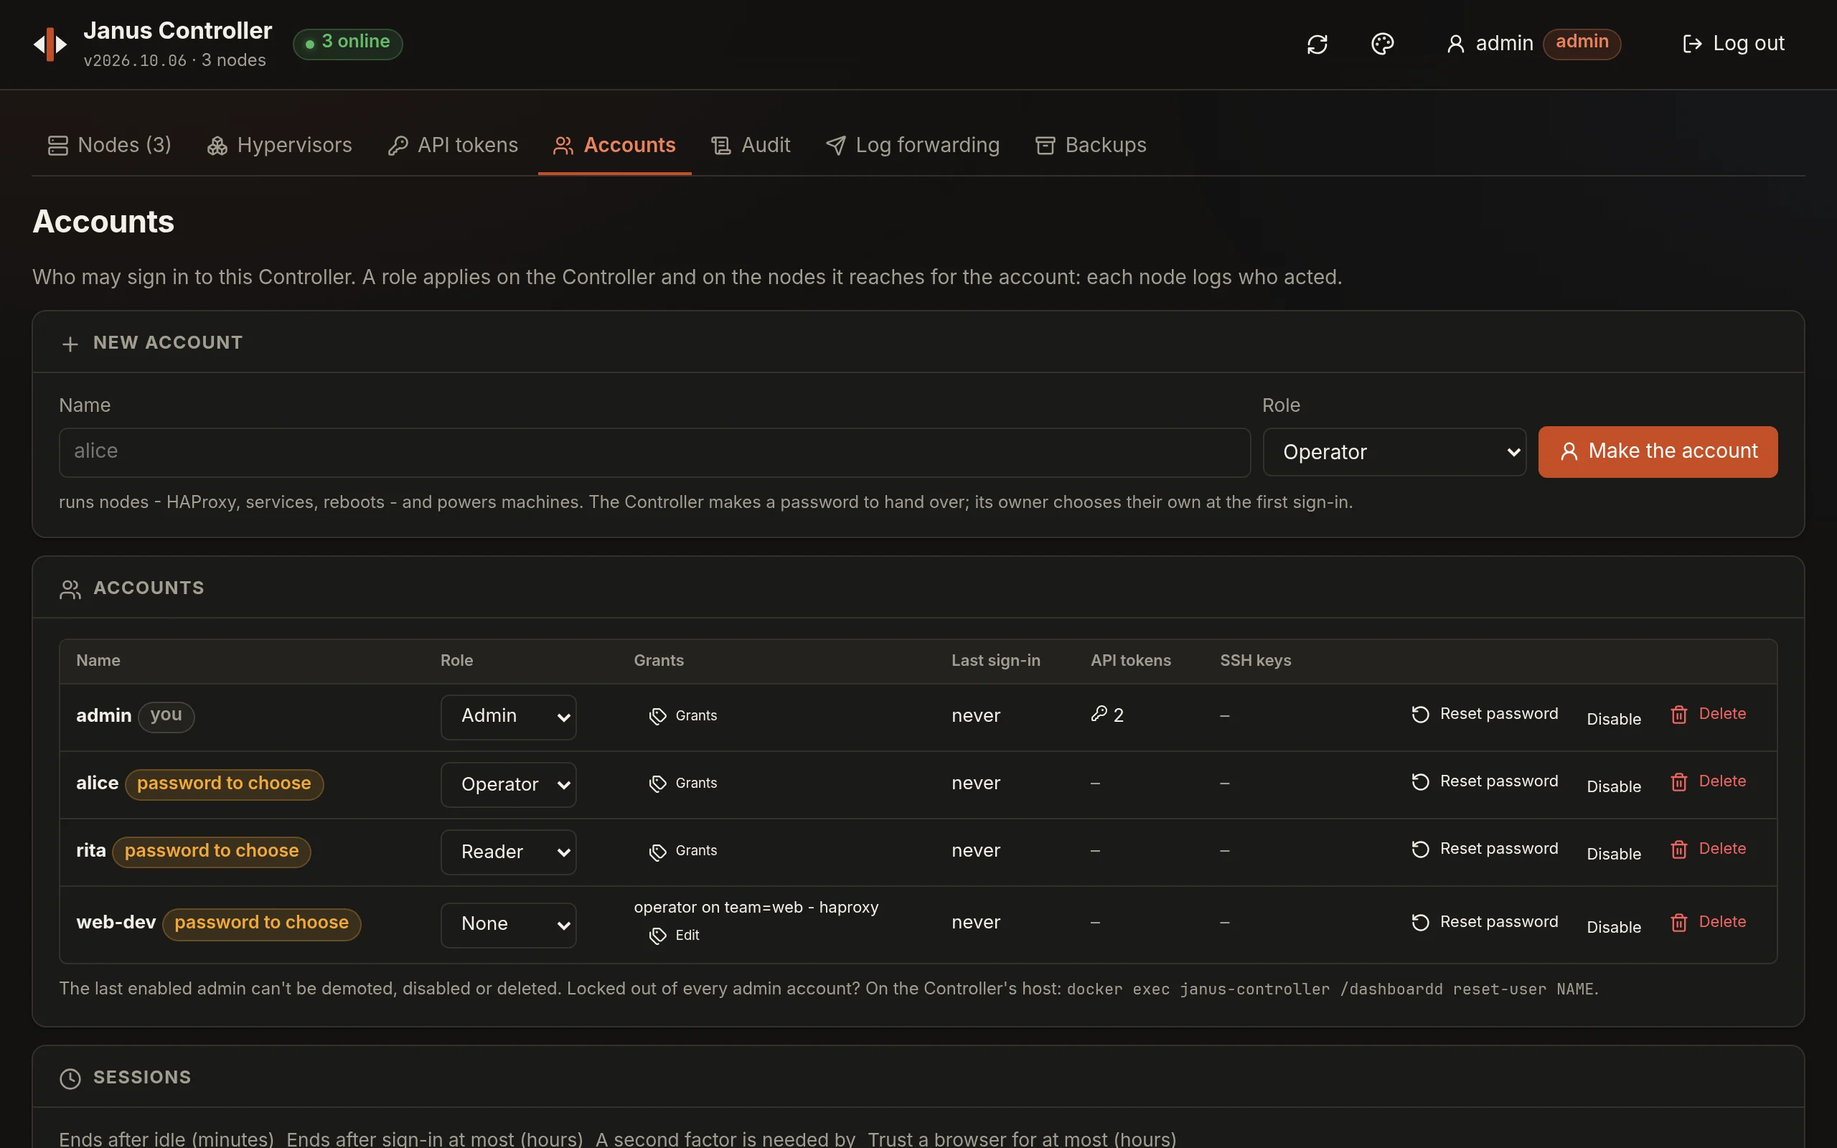
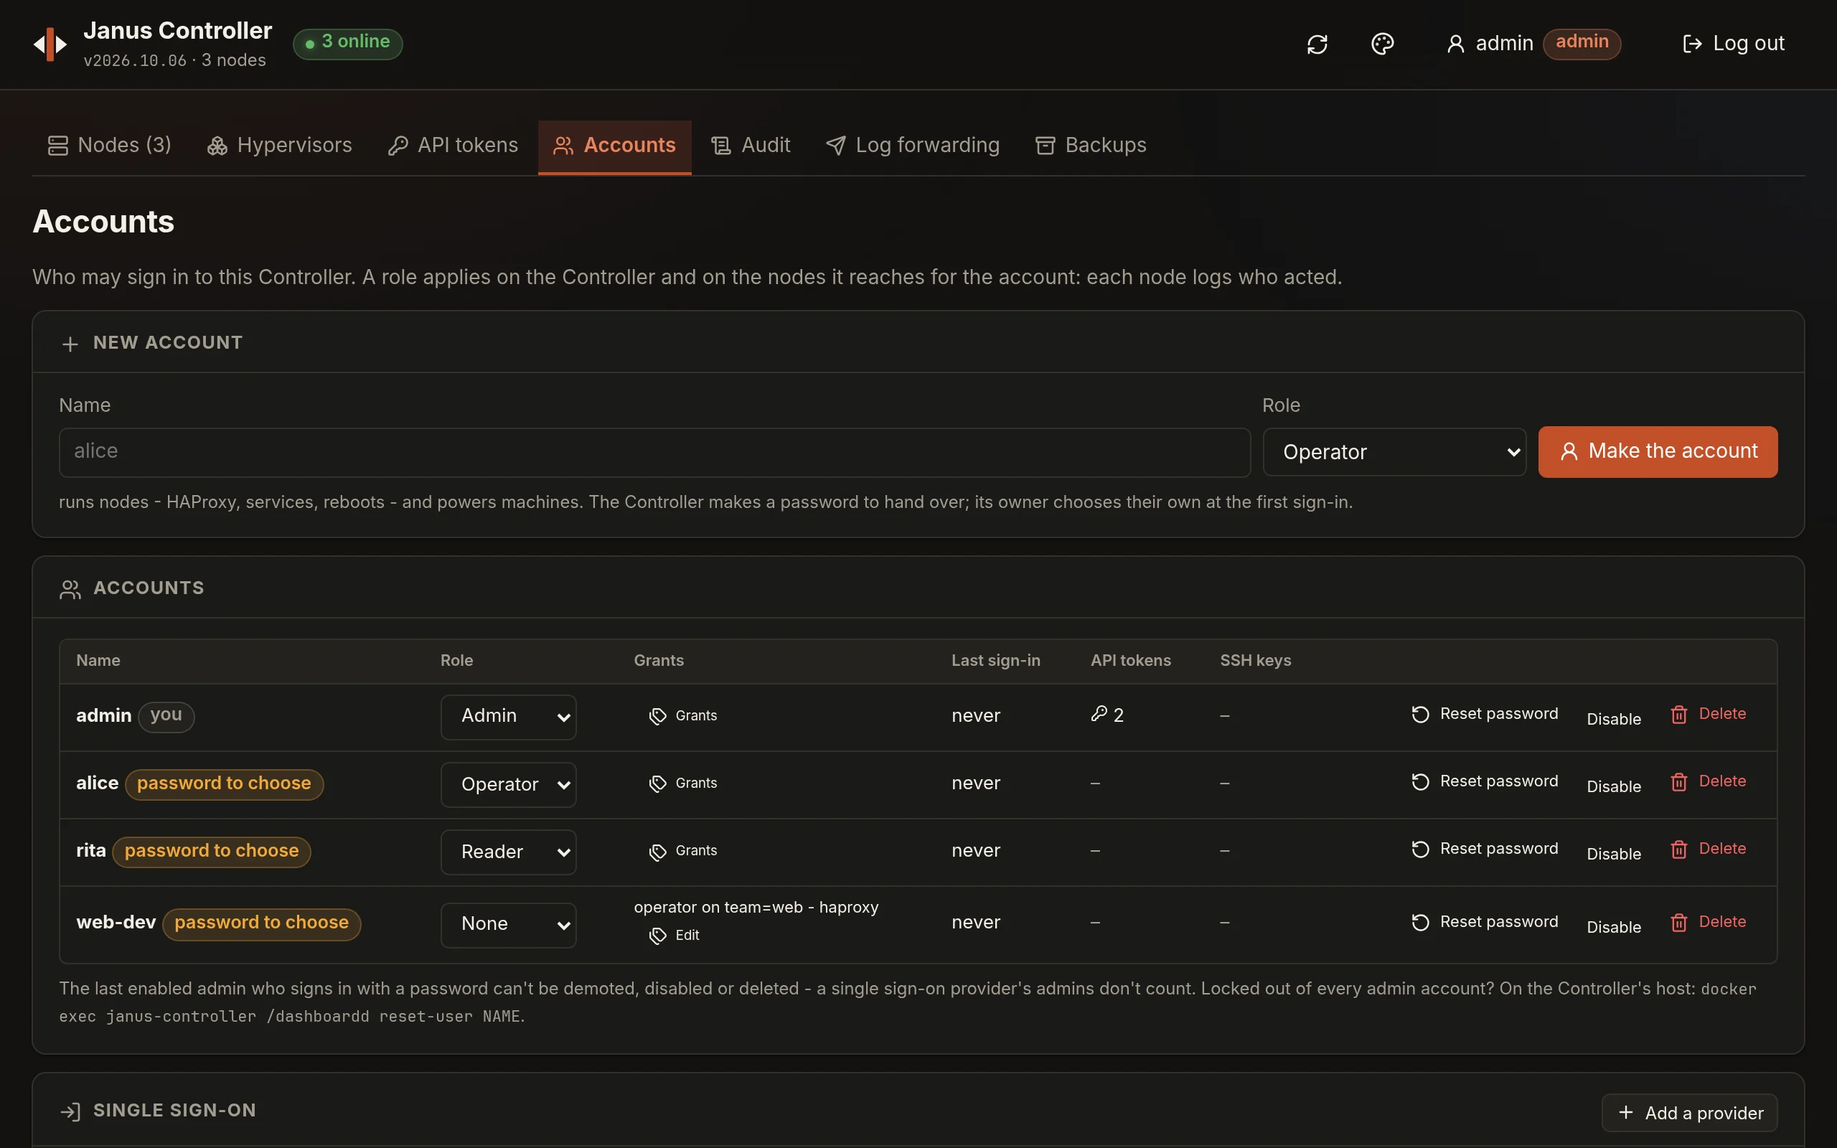
docs: single sign-on - Keycloak, Synology, rules, break-glass
docs/guide/sso.md (The Controller group): how a sign-in through a
provider goes and what's checked; adding a provider, step by step for
Keycloak 26 (the client, PKCE S256, the Group Membership mapper and its
full paths) and a Synology's SSO Server (a name, not an IP; no profile
scope; its subject is the DSM user's name; DOMAIN\group; no second
factor said, no sign-out; the PKCE and nonce switches), and the rest;
trusting its certificate; the rules; the accounts a provider makes and
their lapse; linking an account that has a password; the second
factor's two modes, with Keycloak's acr levels and amr mapper; signing
out; janusctl; what each failure means and where its reference leads;
rolling the Controller back.

The Controller's README, the architecture, the Controller's internals
and the security page say where it fits. The docs' screenshots set a
provider up: a cropped shot of the Accounts tab's Single sign-on card,
and the Accounts tab's own, which now shows its top.

Changed region(s): [[0.0312, 0.8438, 0.9375, 1.0], [0.2812, 0.0938, 0.375, 0.1562], [0.9062, 0.9688, 0.9375, 1.0]]

diff --git a/docs/guide/sso.md b/docs/guide/sso.md
@@ -1,0 +1,280 @@
+# Single sign-on
+
+Accounts sign in to the Controller through an OpenID Connect provider -
+Keycloak, a Synology's SSO Server, any other - instead of a password: the
+provider's groups decide what each person may do, and signing out of the
+Controller signs out of the provider too, where it says how.
+
+Nothing changes for the accounts that have a password: the password form
+stays on the sign-in page, under the providers' buttons - it's also the
+way in when a provider isn't there.
+
+## How it works
+
+The page sends the browser to the provider; the provider sends it back
+with a code, which the Controller exchanges for an ID token - the
+authorization code flow, with PKCE (S256), a state and a nonce. The
+Controller checks the token itself (`dashboard/backend/internal/sso`):
+issued by the provider exactly as configured, for this Controller, not
+expired, signed by one of the provider's keys with an asymmetric
+algorithm. Then:
+
+- an identity already **bound** to an account signs that account in;
+- otherwise the provider's **rules** turn its groups into a role, and an
+  account is made, named after it - at its first sign-in;
+- nobody a rule doesn't match gets in.
+
+```mermaid
+sequenceDiagram
+    accTitle: Signing in through a provider
+    accDescr: The page asks the Controller to start, goes to the provider, comes back to the Controller with a code; the Controller exchanges it for an ID token, checks it, then the page finishes and the account is signed in.
+    participant B as Browser
+    participant C as Controller
+    participant P as Provider
+    B->>C: Sign in with Keycloak
+    C-->>B: the provider's URL (state, nonce, PKCE)
+    B->>P: sign in there
+    P-->>B: back to the Controller, with a code
+    B->>C: the code
+    C->>P: the code, the client's secret, the PKCE verifier
+    P-->>C: the ID token
+    C-->>B: checked: back to the page
+    B->>C: finish
+    C-->>B: signed in
+```
+
+An identity is bound by its issuer and its subject - what the provider
+calls it for good - never by a name or an e-mail address, which someone
+could change at the provider to take another person's account.
+
+## Adding a provider
+
+**Accounts** tab › **Single sign-on** › **Add a provider**. Pick the
+kind - Keycloak, a Synology SSO Server, another provider - which fills
+in the scopes and the claims it sends. The card shows the two addresses
+to register at the provider, for the Controller as you opened it:
+
+- the **redirect URI**: `https://<controller>/api/auth/sso/callback`;
+- the **post-logout URI**: `https://<controller>/`.
+
+Open the Controller by the name your users will use: the provider sends
+the browser back to exactly that address.
+
+![The Accounts tab's Single sign-on card: Keycloak, enabled, its issuer, three rules, the Controller's second factor, Edit and Remove](../assets/screenshots/controller-sso-light.webp)
+
+Then the provider's **issuer URL**, the **client ID** and its
+**secret** (sealed with the Controller's master key, never shown again),
+the **rules** (below), and **Test**: the Controller fetches the
+provider's discovery document and keys the way a sign-in will, and says
+what won't work - an issuer that isn't exactly the one the provider
+gives itself (copy the one it shows), a scope or a claim the provider
+doesn't list, no PKCE, no way to sign out at the provider. Tick **Offer
+it on the sign-in page** and save: the button is there.
+
+### Keycloak
+
+In the realm (Keycloak 26):
+
+1. **Clients** › **Create client**: OpenID Connect, a client ID
+   (`janus`); **Client authentication** on, **Standard flow** only.
+2. **Valid redirect URIs**: the redirect URI above, exactly - no
+   wildcard. **Valid post logout redirect URIs**: the post-logout URI.
+3. **PKCE Method** (in **Capability config**; **Advanced** › **Proof Key
+   for Code Exchange Code Challenge Method** in older versions): `S256`.
+4. **Credentials**: copy the client secret.
+5. **Client scopes** › the client's dedicated scope › **Add mapper** ›
+   **By configuration** › **Group Membership**: token claim name
+   `groups`, **Add to ID token** on. With **Full group path** on (the
+   default), groups read `/janus-admins`, `/ops/janus-admins`: write the
+   rules so.
+
+The issuer is `https://<keycloak>/realms/<realm>`. Realm roles instead
+of groups: a **User Realm Role** mapper with the claim name `roles`, in
+the ID token, and `roles` as the groups claim.
+
+### Synology SSO Server
+
+On the NAS (SSO Server 3, DSM 7.2):
+
+1. **General Settings**: a **Server URL** by name, with a certificate -
+   DSM refuses an IP address there and in redirect URIs; tick **Enable
+   OIDC server**. The issuer is `https://<nas>/webman/sso`: copy the
+   well-known URL it shows without `/.well-known/openid-configuration`.
+2. **Application** › **Add** › OIDC: a name and the redirect URI above;
+   copy its **Application ID** (the client ID) and **Application
+   secret**.
+3. On the Controller, the **Synology SSO Server** kind: scopes `openid
+   email groups` (the SSO Server has no `profile`), the name from the
+   `username` claim, the groups from `groups`.
+
+What to know about the SSO Server:
+
+- its subject is the DSM user's name: a user renamed on the NAS is a
+  new person to the Controller, and a user deleted then made again with
+  the same name gets the old account back;
+- groups are the DSM groups' names (`administrators`, `users`) - for a
+  domain's users, `DOMAIN\group`: write the rules with exactly what the
+  Controller's log shows (below);
+- it says nothing about its own second factor, and has no sign-out
+  endpoint: signing out of the Controller leaves the NAS's session open;
+- if a sign-in fails at the code exchange, try **No PKCE**; if the
+  Controller says the ID token has no nonce, **Accept an ID token
+  without the nonce** (never both: the Controller refuses that).
+
+### Another provider
+
+Authentik, Authelia, Zitadel, Dex, Entra ID...: a confidential client
+with the redirect URI above, the scopes it needs for a name and the
+groups (often `openid profile email` and `groups`), the claim naming the
+user (`preferred_username` by default) and the one listing the groups.
+A dotted name reaches into an object: `realm_access.roles`.
+
+### Its certificate
+
+The Controller fetches the provider's keys and exchanges codes itself,
+trusting the provider's certificate the way the provider's settings say:
+the system's trust store (a public certificate), a CA certificate (PEM:
+an internal CA, the one a Synology exports), or a SHA-256 fingerprint -
+the provider's own certificate's, or a CA's in the chain it presents.
+Over HTTPS only, no proxy, no redirect followed.
+
+## Rules: who gets what
+
+A rule gives the people in a group a role:
+
+| Group | Role | On the nodes labelled | Only |
+|---|---|---|---|
+| `/janus-admins` | admin | | |
+| `/janus-ops` | operator | | |
+| `/web-team` | operator | `team=web` | HAProxy |
+
+A rule without labels or domains gives the role over everything; with
+them, a grant on those nodes - as an admin gives on the
+[Accounts tab](../../dashboard/README.md#accounts-and-roles). Someone in
+several groups gets the **highest** role their rules give, and every
+grant. **Anyone it signs in gets at least** a role, if you like: then
+nobody is refused. Otherwise someone no rule matches is refused - and an
+account the provider made loses its role and grants.
+
+The rules apply at every sign-in, and again as soon as they change, to
+the groups each account had at its last sign-in: a role taken away ends
+the account's sessions at once. A group changed at the provider counts
+at the next sign-in.
+
+## Accounts a provider makes
+
+At its first sign-in, the account is named after the username claim,
+lowercased - refused if another account has that name (a local account
+is never taken over: its owner links the identity instead, below), or
+if it isn't a name an account may have. It has no password; the
+**Accounts** tab shows its provider, and its role and grants as the
+rules give them - change the rules, not the account.
+
+**It lapses** a week after its last sign-in through the provider
+(**Its accounts stop working after**, 0 to never): its sessions, API
+tokens and SSH keys stop working until it signs in through the provider
+again - someone removed at the provider loses everything the Controller
+gave them, even without signing in again. Disable the account to keep
+someone out at once; deleted, it's made again at the next sign-in if a
+rule still lets it in. Removing the provider makes its accounts lapse.
+
+`dashboardd reset-user NAME` turns such an account into an ordinary one,
+with a password to choose and its role kept - its identity stays linked.
+
+## Linking an account that has a password
+
+An account with a password can sign in through a provider too: **Your
+account** › **Single sign-on** › **Link Keycloak**, your password again,
+then the provider asks you to sign in there - whoever was signed in
+there already isn't linked silently. The identity then signs you in as
+you, with your role (the rules don't change it, but one must still let
+the identity in). The same dialog forgets it; an admin can too
+(**Unlink** on the Accounts tab).
+
+Linking needs a sign-in that gave your second factor, if your account
+has one - a trusted browser's doesn't count -, like adding an SSH key.
+
+## The second factor
+
+**The Controller asks for its own** (the default): signing in through
+the provider stands for the password only; the Controller's second
+factor - an authenticator app, a passkey - and its policy apply as for
+a password, trusted browsers included.
+
+**The provider's counts**: the provider's sign-in stands for both, and
+the Controller asks for nothing more - whatever its policy. To trust it
+only when it says it did, give the values its ID token must carry: an
+`acr` or an `amr`. When the token doesn't carry one, the Controller asks
+for its own. A Synology says nothing: trust it as is, or keep the
+Controller's.
+
+With Keycloak:
+
+- **`acr`**: the level of authentication. Out of the box, `1` is a
+  sign-in where the password was typed, `0` one Keycloak's own session
+  skipped - neither says a second factor was given. Give its browser
+  flow levels (*Conditional - Level Of Authentication*: level 2 = the
+  password and an OTP), map them to names in the realm's or the client's
+  *ACR to LoA mapping* (`gold` = 2), and ask the Controller for `gold`:
+  it sends `acr_values=gold`, Keycloak runs the steps that level needs,
+  and the Controller checks the token says so.
+- **`amr`**: how the person signed in - add the *Authentication Method
+  Reference (AMR)* mapper to the client, give the OTP step its reference
+  (`otp`), and ask the Controller for `otp`.
+
+An account a provider made, without a password, confirms a change to its
+second factors with a code of its authenticator app, a recovery code,
+or a passkey.
+
+## Signing out
+
+Signing out of the Controller ends its session, then sends the browser
+to the provider's sign-out (its `end_session_endpoint`, with the ID
+token as a hint) and back to the Controller's sign-in page - so the next
+person at that browser doesn't get in through the provider's session.
+A provider without one (a Synology), or **Signing out ends the
+Controller's session only**: the provider's session stays open.
+
+Disabling a provider ends the sessions that came through it.
+
+## janusctl
+
+`janusctl login` through the browser (the default, or `-device`) works
+for any account: sign in on the page that opens, through the provider.
+The certificate it gets lasts 12 hours, an account's API tokens and SSH
+keys as long as the account doesn't lapse.
+
+## When signing in fails
+
+The page says what went wrong, with a **reference**; the Controller's
+log says more under it - `docker logs janus-controller`:
+
+```text
+sso: ref 1c14706c: kc: access: sub "514fb839-886e-4f09-80ba-28067d2cc951", 0 groups: the provider's rules give you no access to this Controller
+```
+
+| Shown | What happened |
+|---|---|
+| isn't set up right | the provider is disabled or gone, its secret doesn't open, the redirect URI isn't the one the browser came back to, or the issuer isn't the one the provider gives itself - **Test** says which |
+| didn't answer as it should | the provider was unreachable, or refused the code exchange (its error, quoted in the log: a wrong secret is `invalid_client`) |
+| didn't sign you in | the person cancelled, or the provider refused |
+| didn't check out | the ID token: another issuer, audience or nonce, expired (is the Controller's clock right?), a key it doesn't publish |
+| is over | the sign-in took more than ten minutes, was used already, or another one started in the same browser since |
+| no access | no rule matches the person's groups |
+| already exists | the name is another account's |
+
+The first sign-in after each change of a provider's settings logs the
+names of the claims its ID token carried - never their values: what to
+look at when the groups don't come.
+
+```text
+sso: kc: the ID token's claims: acr at_hash aud auth_time azp email email_verified exp family_name given_name groups iat iss jti name nonce preferred_username sid sub typ (1 groups)
+```
+
+## Rolling back the Controller
+
+A Controller older than single sign-on drops what it doesn't know when
+it saves the accounts: the identities, and which provider made an
+account. The accounts a provider made then have no password and no
+identity - `dashboardd reset-user NAME` gives one a password -, and a
+provider's next sign-in finds its name taken.

diff --git a/docs/internals/controller.md b/docs/internals/controller.md
@@ -47,8 +47,10 @@ sequenceDiagram
 | What | Where | |
 |---|---|---|
 | Nodes, pending registrations, labels | `<data-dir>` (`internal/store`, `internal/pending`) | |
-| Accounts, MFA, API tokens | `users.json`, `api-tokens.json` | bcrypt passwords; tokens and enrollment tokens as SHA-256 only; TOTP secrets sealed with the master key |
-| Sessions | memory | idle 30 minutes, 12 hours at most; ended by a password change |
+| Accounts, MFA, API tokens | `users.json`, `api-tokens.json` | bcrypt passwords; tokens and enrollment tokens as SHA-256 only; TOTP secrets sealed with the master key; identities at single sign-on providers (issuer, subject) |
+| Single sign-on providers | `sso.json` | their client secrets sealed with the master key |
+| Sessions | memory | idle 30 minutes, 12 hours at most; ended by a password change; a provider's ID token, for signing out of it |
+| Single sign-ons under way | memory | ten minutes, each taken once |
 | The fleet's issuing CA | `<data-dir>`, sealed with the master key | the root's key leaves with the recovery kit |
 | Hypervisors, machines | `<data-dir>/hypervisors`, `<data-dir>/machines` | ownership tags on every machine it created |
 | The audit log | `audit.jsonl` | every change made through the API |
@@ -91,6 +93,7 @@ Controller](../../dashboard/README.md#updating-the-controller)).
 | The HTTP server, routes, gates | `dashboard/backend` (`main.go`, `auth_handlers.go`, `node_pages.go`) |
 | The relay to nodes | `dashboard/backend/internal/nodeproxy` |
 | Accounts, MFA, tokens | `dashboard/backend/internal/auth` |
+| Single sign-on | `dashboard/backend/internal/sso`, `sso_login.go`, `sso_settings.go` |
 | The fleet | `dashboard/backend/internal/fleet`, `internal/secrets` |
 | Hypervisors, machines | `dashboard/backend/internal/hypervisor`, `internal/machines` |
 | Backups | `dashboard/backend/internal/backup`, `internal/s3` |

diff --git a/dashboard/README.md b/dashboard/README.md
@@ -370,7 +370,8 @@ others on the **Accounts** tab, each with a role:
 The Controller makes a new account's password, shown once to hand over;
 its owner chooses their own at the first sign-in. **Reset password**
 does the same for an account and ends its sessions. The last enabled
-admin can't be demoted, disabled or deleted. A Controller from before
+admin who signs in with a password can't be demoted, disabled or
+deleted. A Controller from before
 accounts had one admin password: it's the account `admin`'s now, and
 its API tokens are admin's.
 
@@ -432,6 +433,13 @@ password change, a **Reset 2FA**, a disabled account or a shorter
 policy forgets them too. A sign-in a trusted browser skipped the factor
 in gives it once more to add an SSH key (a key outlives the browser's
 trust). The audit shows such a sign-in `via trusted browser`.
+
+**Single sign-on**: accounts can sign in through an OpenID Connect
+provider - Keycloak, a Synology's SSO Server, another - set up on the
+**Accounts** tab: its rules turn the provider's groups into a role and
+make the account at its first sign-in, and an account with a password
+can link its identity there (**Your account**). The password form stays.
+See [Single sign-on](../docs/guide/sso.md).
 
 The **Audit** tab is every change made on the Controller - from its
 pages or with an API token - and every sign-in, failed or not, with who

diff --git a/docs/private-cloud/security.md b/docs/private-cloud/security.md
@@ -48,6 +48,7 @@ vulnerability: [security policy](../../SECURITY.md).
 | The fleet's issuing key | The Controller's data, sealed with its master key | Keep the master key outside the data volume (`JANUS_CONTROLLER_MASTER_KEY_FILE`): a copy of the data alone opens nothing |
 | The backups | An S3 bucket, encrypted to the backup kit's key | The kit and its passphrase in a password manager; a bucket with versioning or Object Lock, and a write-only key for the Controller |
 | Accounts | The Controller: bcrypt passwords, TOTP secrets sealed with the master key, passkeys | MFA - required for admins by default |
+| Single sign-on providers' client secrets | The Controller's data, sealed with its master key | A client per Controller, allowed its redirect URI only; the provider's own second factor counted only when you say so ([single sign-on](../guide/sso.md)) |
 | API tokens, enrollment tokens | Shown once; the Controller keeps their SHA-256 | A secret store; the lowest role and the narrowest scope that work; an expiry; revoke what's done |
 | Hypervisor credentials | The Controller's data: its SSH key for a libvirt host, the Proxmox VE token's secret | Dedicated accounts whose rights cover only the Controller's machines - polkit on libvirt, one pool on Proxmox ([hypervisors](../hypervisors.md)) |
 

diff --git a/docs/architecture.md b/docs/architecture.md
@@ -226,6 +226,13 @@ scope giving more than its roles.
 A second factor - TOTP, its secret sealed with
 the master key, or a WebAuthn passkey - finishes the sign-in of an
 account that has one, required for admins by default.
+An account can sign in through an OpenID Connect provider instead
+(`dashboard/backend/internal/sso`, [single sign-on](guide/sso.md)): the
+authorization code flow with PKCE, the ID token checked by the
+Controller itself, the identity bound to one account by its issuer and
+subject; the provider's groups decide the role of the accounts it makes,
+which lapse when they stop signing in through it. The password form
+stays, for the accounts that have one.
 
 The Controller backs itself up (`dashboard/backend/internal/backup`,
 `backups.go`): its data directory, its master key and its nodes'

diff --git a/docs/guide/README.md b/docs/guide/README.md
@@ -25,6 +25,9 @@ from the Controller's web UI, from `janusctl`, or from Terraform.
 
 - [The Controller](../../dashboard/README.md) - the web UI for a fleet:
   installing it, accounts and roles, adding nodes, backups, updates.
+- [Single sign-on](sso.md) - accounts signing in through Keycloak, a
+  Synology's SSO Server or another OpenID Connect provider, their roles
+  from its groups.
 - [Hypervisors](../hypervisors.md) - nodes the Controller creates
   itself, on libvirt/KVM or Proxmox VE.
 

diff --git a/docs/README.md b/docs/README.md
@@ -22,6 +22,7 @@ Install, configure and operate Janus nodes and the Controller.
 ### The Controller
 
 - [The Controller](../dashboard/README.md)
+- [Single sign-on](guide/sso.md)
 - [Hypervisors](hypervisors.md)
 - [Auto-scaling](guide/auto-scaling.md)
 
